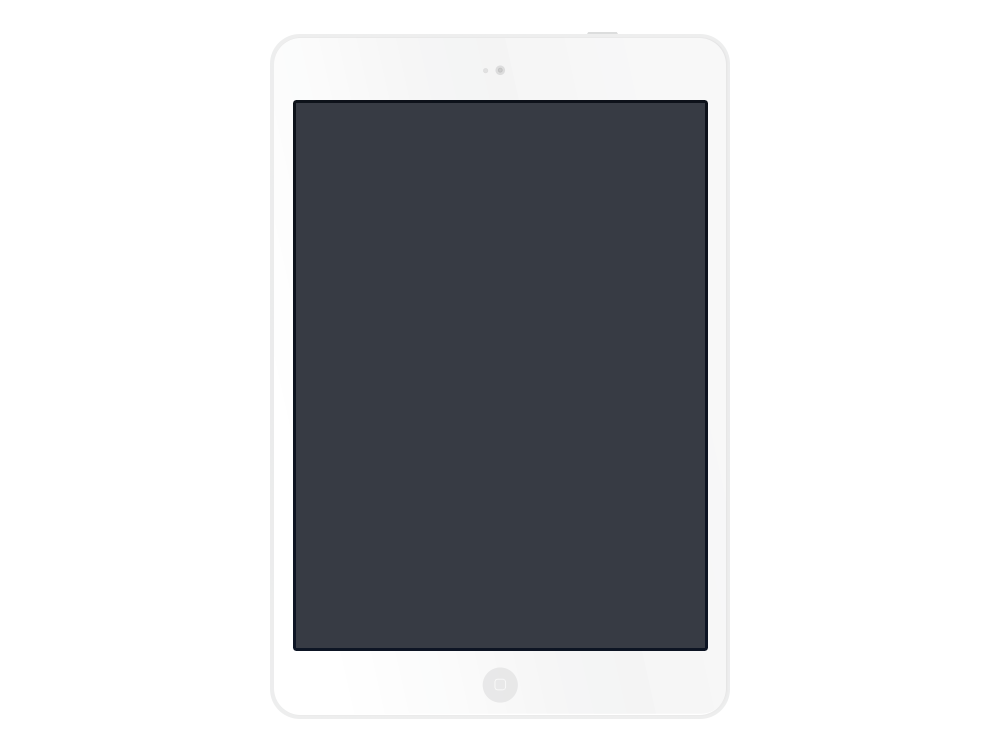
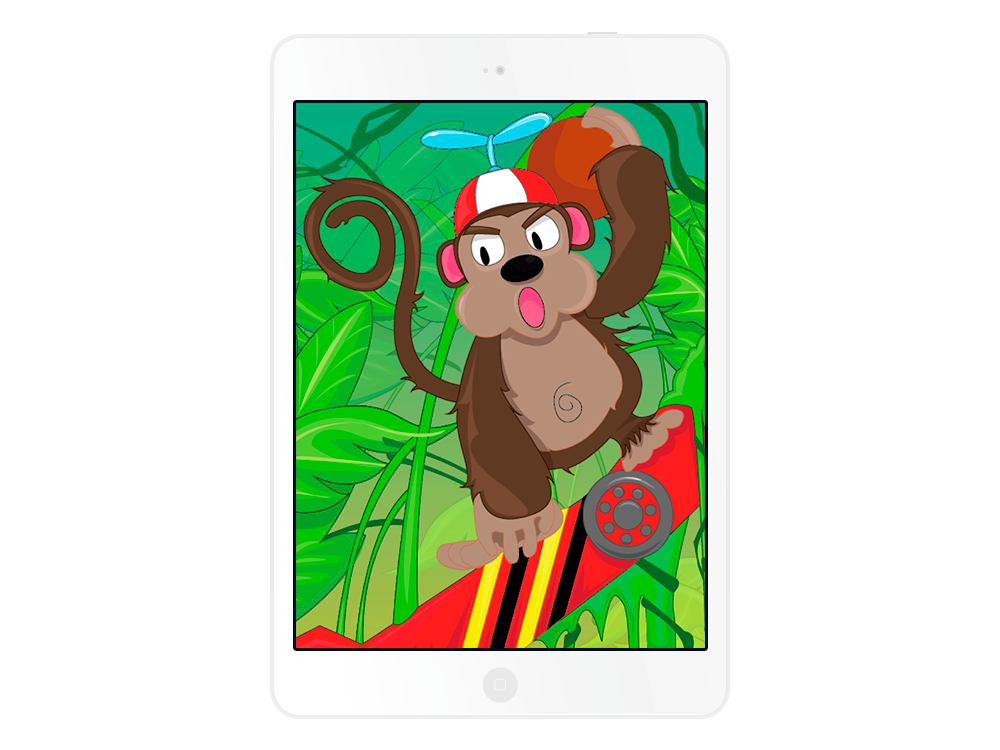
update css ipad air

Changed region(s): [[0.279, 0.1227, 0.713, 0.8893]]

diff --git a/css/responsive.css b/css/responsive.css
@@ -48,111 +48,39 @@
 
 /* iPads (landscape) */
 @media only screen and (min-device-width : 768px) and (max-device-width : 1024px) and (orientation : landscape) {
-	.wrapper {
-	  height: 2048px;
-	  position: absolute;
-	  overflow: hidden;
-	  display: table;
-	  height: 100%;
-	  width: 100%;
-	  left: 0;
-	  top: 0;
-	}
-	.iphone2 {
-	  background: red;
-	}
 }
 
 /* iPads (portrait) */
 @media only screen and (min-device-width : 768px) and (max-device-width : 1024px) and (orientation : portrait) {
-	.wrapper {
-	  height: 2048px;
-	  position: absolute;
-	  overflow: hidden;
-	  display: table;
-	  height: 100%;
-	  width: 100%;
-	  left: 0;
-	  top: 0;
-	}
-	.iphone2 {
-	  background: none;
-	}
 }
 
 /* ipad 2 (Landscape) */
 @media (max-device-width: 1024px) and (orientation: landscape) {
-	.wrapper {
-	  height: 2048px;
-	  position: absolute;
-	  overflow: hidden;
-	  display: table;
-	  height: 100%;
-	  width: 100%;
-	  left: 0;
-	  top: 0;
-	}
-	.iphone2 {
-	  background: none;
-	}
 }
 
-/* ipad2 (portait) */
+/* ipad2 (portait) (test sur ipad air pour le moment) */
 @media (max-device-width: 768px) and (orientation: portrait) {
 	.wrapper {
-	  height: 2048px;
-	  position: absolute;
-	  overflow: hidden;
-	  display: table;
-	  height: 100%;
-	  width: 100%;
-	  left: 0;
-	  top: 0;
-	}
-	.scene {
-		min-height: 2048px;
-		position: relative;
-  		overflow: hidden;
+	  height: 1024px;
 	}
 	.ipad {
-	  background: url(../assets/elements/ipad.png) no-repeat 100% 100%;
-	  position: absolute;
-	  width: 110%;
-	  height: 100%;
 	  left: 5%;
-	  top: -5%;
+	  top: -10%;
 	}
 	.monkey {
-	  background: url(../assets/elements/monkey.png) no-repeat 100% 100%;
-	  position: absolute;
-	  width: 110%;
-	  height: 100%;
-	  left: -50%;
-	  top: -8%;
+	  background: none;
 	}
 	.bg3 {
-	  background: url(../assets/background/bg3.png) repeat-x 100% 100%;
-	  position: absolute;
-	  width: 110%;
-	  height: 100%;
 	  left: -5%;
-	  top: 23%;
+	  top: 15%;
 	}
 	.bg2 {
-	  background: url(../assets/background/bg2.png) repeat-x 100% 100%;
-	  position: absolute;
-	  width: 110%;
-	  height: 100%;
 	  left: -5%;
-	  top: 25%;
+	  top: 18%;
 	}
 	.foreground {
-	  background: url(../assets/background/bg1.png) repeat-x 100% 100%;
-	  position: absolute;
-	  width: 110%;
-	  height: 100%;
 	  left: -5%;
-	  top: -5%;
+	  top: -9%;
 	}
 	.iphone2 {
 	  background: none;

diff --git a/css/app.css b/css/app.css
@@ -44,7 +44,6 @@ header {
     padding-top: 50px;
     margin-bottom: 50px;
     color: #fff;
-    min-height: 460px;
     height: 100%;
 }
 
